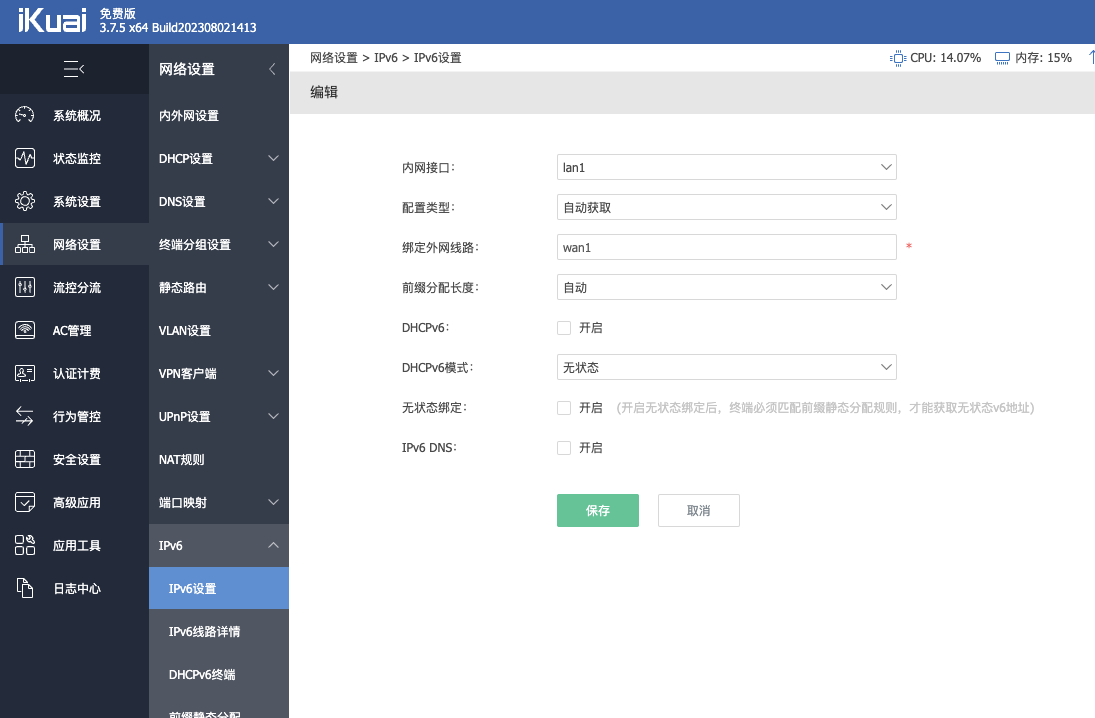
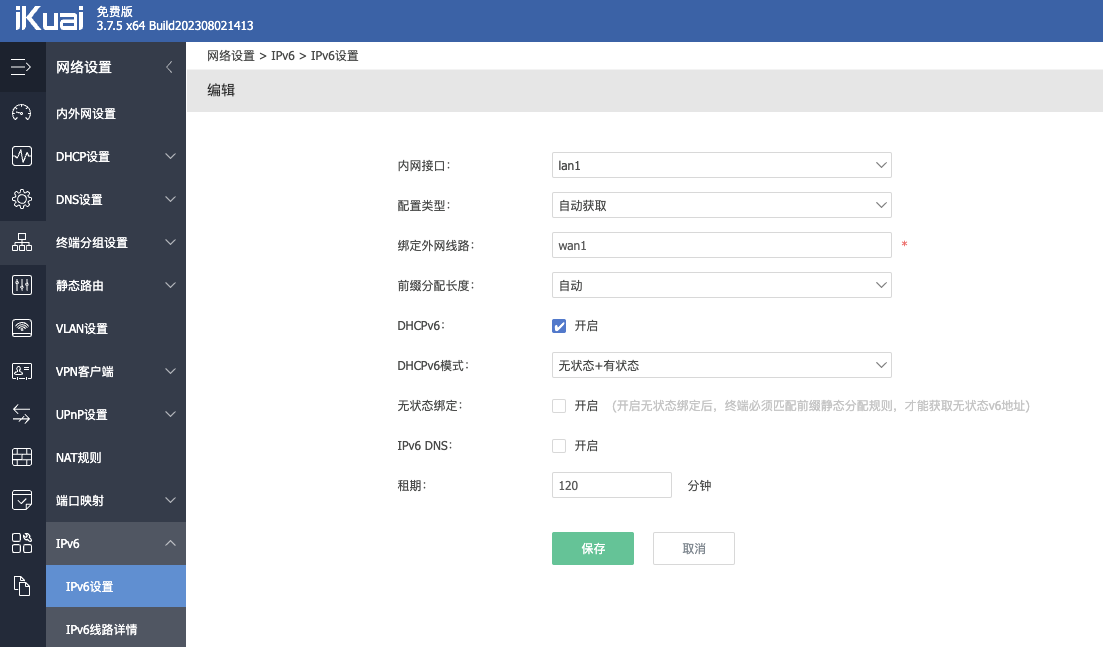
feat: 🎸 更新文档

diff --git a/ha.md b/ha.md
@@ -1,0 +1,35 @@
+---
+title: .? Home Assistant
+lastUpdated: true
+---
+
+# Home Assistant `192.168.6.?`
+
+| 服务           | 端口  |
+| -------------- | ----- |
+| Home Assistant | :8123 |
+
+智能家居助手 Home Assistant
+
+## 安装
+
+一键安装 VM 虚拟机版本
+
+```sh
+
+bash -c "$(wget -qLO - https://github.com/tteck/Proxmox/raw/main/vm/haos-vm.sh)"
+```
+
+一键安装 LXC 版本
+
+```sh
+
+bash -c "$(wget -qLO - https://github.com/tteck/Proxmox/raw/main/ct/homeassistant.sh)"
+```
+
+## 须知
+
+1. VM 版本 ip 不能确定是因为他走的 DHCP， 还没找到设置静态 ip 的方法
+
+2. 安装后 PVE 管理后台会看到 内存占用在 90+% 不用慌， 看这个[大佬的解释](https://bbs.hassbian.com/forum.php?mod=redirect&goto=findpost&ptid=16631&pid=457583)
+   > 正常，PVE 里的 HAOS 你给它多少内存它就会吃多少，永远会保证在 90%的占用。这个是虚拟机的占用，不是 ha 的占用。pve 里的虚拟机并不能 lxc 容器一样动态分配内存。

diff --git a/arch.md b/arch.md
@@ -231,6 +231,7 @@ sequenceDiagram
 - [基于 DNS 的内网透明代理分流方案](https://songchenwen.com/tproxy-split-by-dns)
 - [ahuacate/pve-host](https://github.com/ahuacate/pve-host#22-pve-host---dual-nic-pfsense-support)
 - [ahuacate/pve-homelab](https://github.com/ahuacate/pve-homelab#prerequisites)
+- [tteck/Proxmox](https://github.com/tteck/Proxmox)
 - [DIY Linux Router Part 3: PPPOE and Routing](https://www.sherbers.de/diy-linux-router-part-3-pppoe-and-routing/)
 - [debian 搭建简易路由笔记（未完成外网部分）](https://www.jianshu.com/p/d7a070ee0378)
 - [nftables 初体验](https://owent.net/2020/2002.html)

diff --git a/ikuai.md b/ikuai.md
@@ -110,11 +110,6 @@ DNS 是一个把域名 `www.baidu.com` 翻译为 `39.23.112.233` 的服务器
 
 非必要， 不开也行
 
-不开启 DHCP; 客户端使用 SLAAC 方式连接;
-
-> 在 Jellyfin 小鸡中，开启 DHCPv6 的话，就算网络 IPv6 设置为 静态留空，也会强制开启 IPv6 链接
-> 但链接 jellyfin repo 会非常慢， 所以就在使用的地方 SLAAC 按需开启
-
 ![IPv6](/assets/ikuai/ipv6.png)
 
 ### 完结撒花
